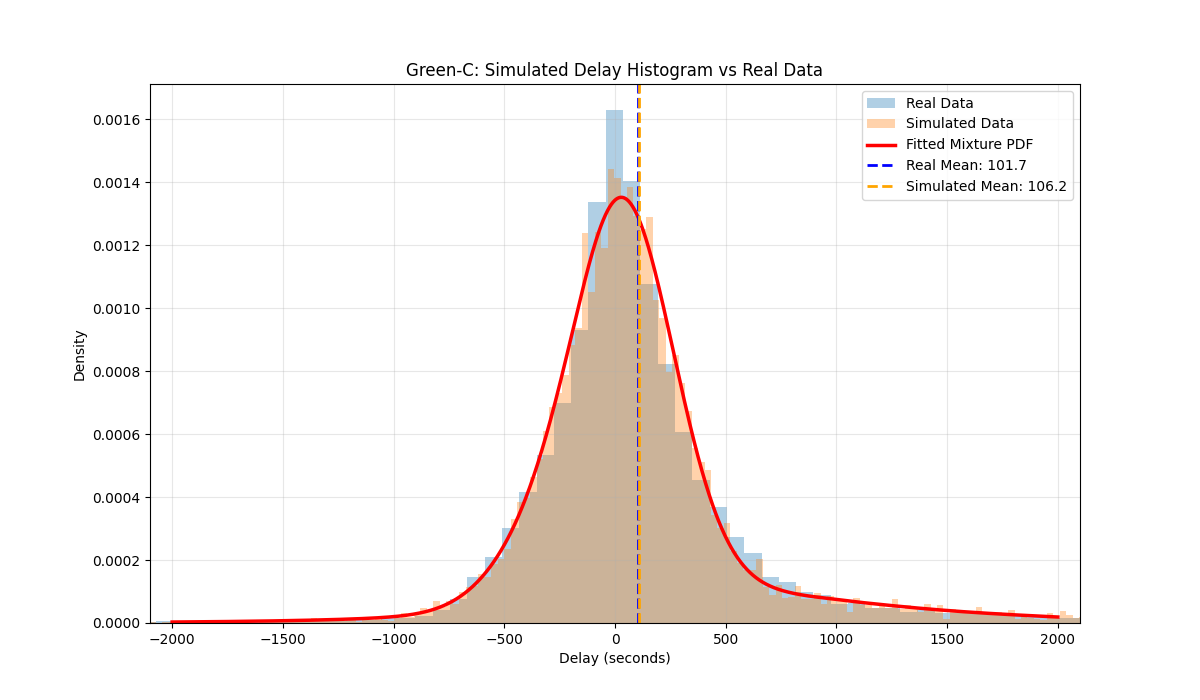
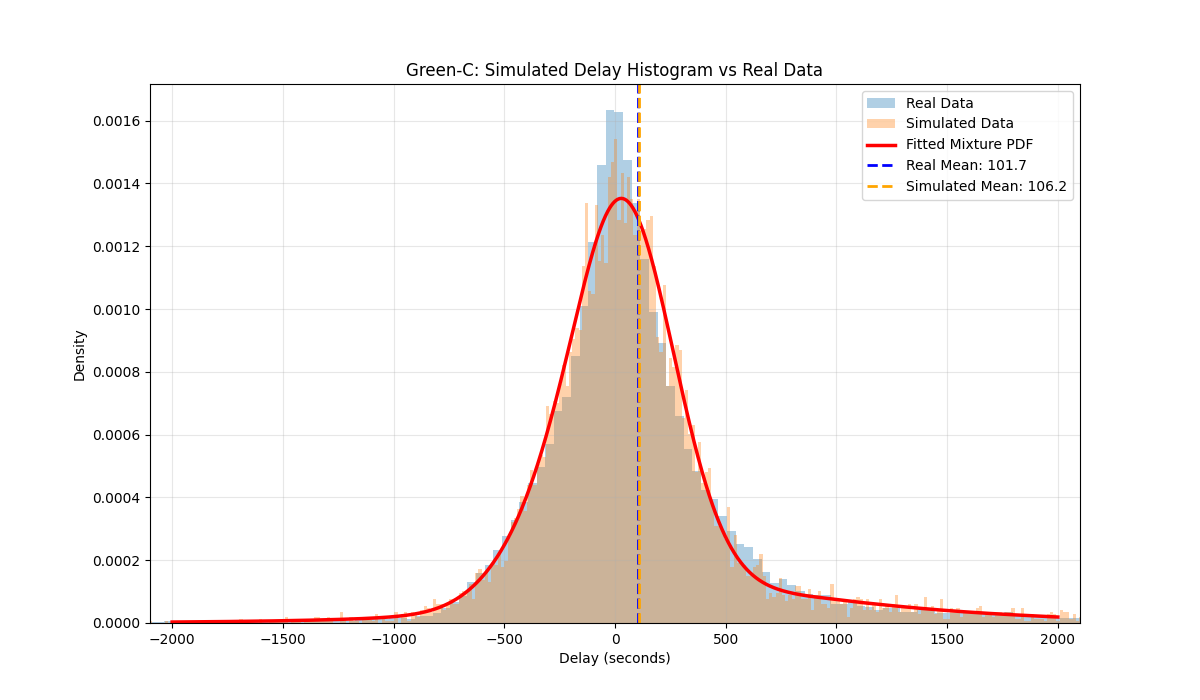
Done for real this time

diff --git a/graphing.py b/graphing.py
@@ -783,7 +783,7 @@ def main():
         print("\nConditional-model simulation results:")
         print("First 10 delay increments:", conditional_simulation['increments'][:10])
         print("First 10 cumulative delays:", conditional_simulation['cumulative_delays'][:10])
-        plot_simulation_vs_real_data(conditional_model, conditional_simulation)
+        plot_simulation_vs_real_data(conditional_model, conditional_simulation, bins=1000)
 
     if global_model is not None:
         global_simulation = run_delay_simulation(
@@ -795,7 +795,7 @@ def main():
         print("\nGlobal-model simulation results:")
         print("First 10 delay increments:", global_simulation['increments'][:10])
         print("First 10 cumulative delays:", global_simulation['cumulative_delays'][:10])
-        plot_simulation_vs_real_data(global_model, global_simulation, bins=300)
+        plot_simulation_vs_real_data(global_model, global_simulation, bins=1000)
 
 
 if __name__ == "__main__":
